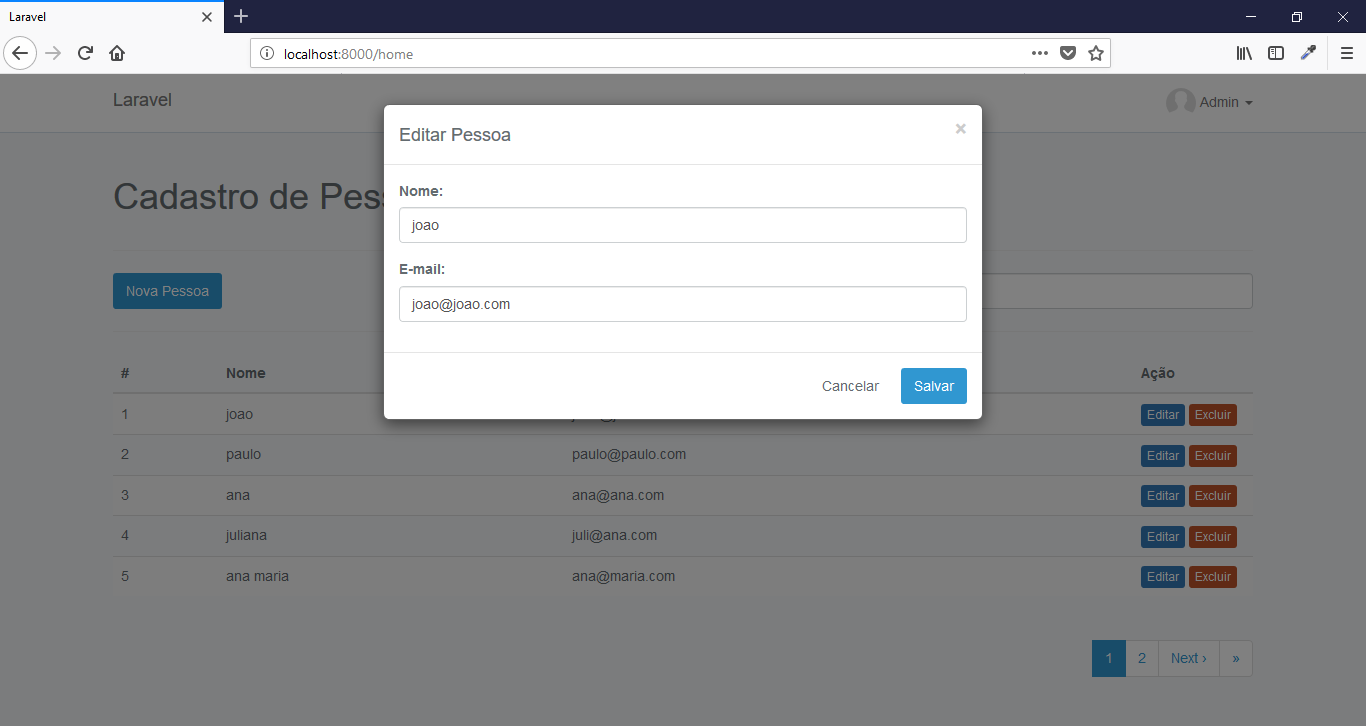
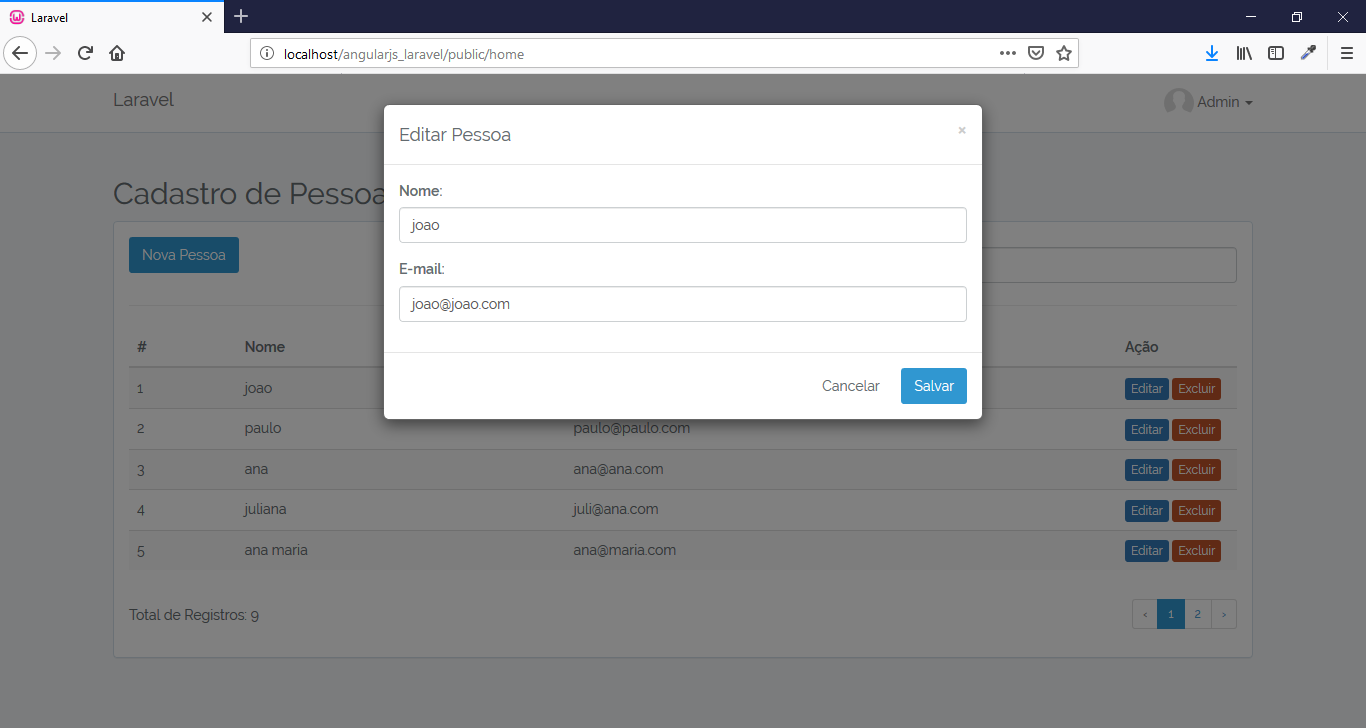
Update files

diff --git a/public/css/style.css b/public/css/style.css
@@ -67,7 +67,7 @@
 	padding: 15px;
 }
 
-.pag-left {
+.pagination-left {
 	display: block;
 	width: 50%;
 	float: left;
@@ -76,7 +76,7 @@
 	padding-top: 12px;
 	height: 50px;
 }
-.pag-right {
+.pagination-right {
 	display: block;
 	width: 50%;
 	float: right;
@@ -89,6 +89,7 @@
 /* enable absolute positioning */
 .inner-addon {
   position: relative;
+  margin-top: 10px;
 }
 
 /* style fa */

diff --git a/resources/views/home.blade.php b/resources/views/home.blade.php
@@ -5,7 +5,7 @@
 	<div class="container" ng-init="listar()">
 		<div class="row">
 			<div class="col-md-12">
-				<h1>Cadastro de Pessoas</h1>
+				<h2>Cadastro de Pessoas</h2>
 			</div>
 		</div>
 		<div class="panel panel-default">
@@ -45,10 +45,10 @@
 						</tbody>
 					</table>
 					<div class="row">
-						<div class="pag-left">
+						<div class="pagination-left">
 							Total de Registros: <%filterData.length%>
 						</div>
-						<div class="pag-right">
+						<div class="pagination-right">
 							<uib-pagination class="pagination-sm pagination" total-items="filterData.length" ng-model="page"
 											previous-text="&lsaquo;" next-text="&rsaquo;" items-per-page=5></uib-pagination>
 						</div>

diff --git a/readme.md b/readme.md
@@ -11,6 +11,7 @@ Project developed with the Laravel Framework 5 and AngularJS 1.5.
 - Filter
 - Pagination
 - View Blade
+- Responsive
 
 ## Requirements
 
@@ -99,3 +100,4 @@ Laravel Admin is licensed under <a href="LICENSE">The MIT License (MIT)</a>.
 ![Screenshots](screenshots/screenshot03.png)<br><br>
 ![Screenshots](screenshots/screenshot04.png)<br><br>
 ![Screenshots](screenshots/screenshot05.png)<br><br>
+![Screenshots](screenshots/screenshot06.png)<br><br>
